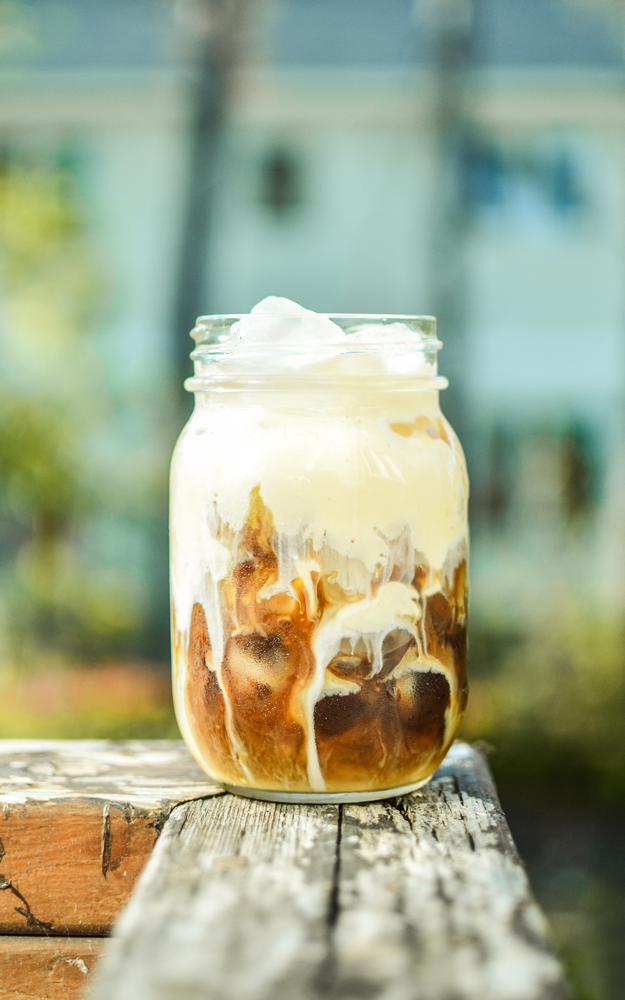
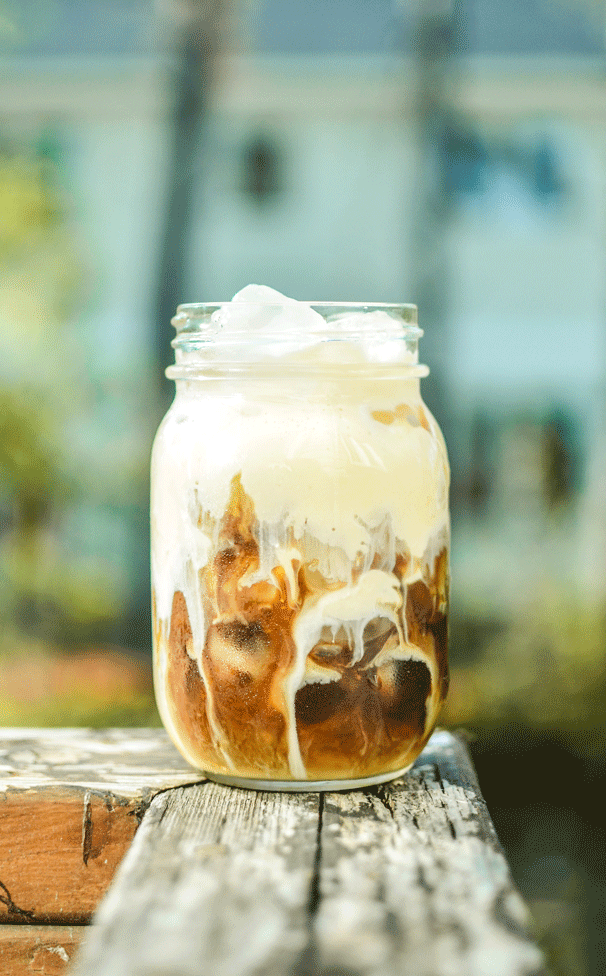
adjusted image order and size

diff --git a/index.html b/index.html
@@ -46,10 +46,10 @@
 		<div class="unit unit-s-1 unit-m-1-2 unit-l-1-4">
   			<ul class="photos">
 				<li>
-					<img src="img/img-bicycler.png" alt="eben">
+					<img src="img/img-iggy-4.png" alt="eben">
 				</li>
 				<li>
-					<img src="img/img-iggy-4.png" alt="eben">
+					<img src="img/img-bicycler.png" alt="eben">
 				</li>
 				<li>
 					<img src="img/img-food-brownie.png" alt="eben">
@@ -61,7 +61,7 @@
 					<img src="img/img-teganandsara.png" alt="eben">
 				</li>
 				<li>
-					<img src="img/img-eben-2.png" alt="eben">
+					<img src="img/img-bab-2.png" alt="eben">
 				</li>
 				<li>
 					<img src="img/img-food-macaroon.png" alt="eben">
@@ -70,10 +70,16 @@
 					<img src="img/img-nf.png" alt="eben">
 				</li>
 				<li>
+					<img src="img/img-eben-2.png" alt="eben">
+				</li>
+				<li>
 					<img src="img/img-food-meat-pies.png" alt="eben">
 				</li>
 				<li>
-					<img src="img/img-eddie-3.png" alt="eben">
+					<img src="img/img-bab-1.png" alt="eben">
+				</li>
+				<li>
+					<img src="img/img-penny.png" alt="eben">
 				</li>
 			</ul>
 		</div>
@@ -89,7 +95,13 @@
 					<img src="img/img-hodan-3.png" alt="eben">
 				</li>
 				<li>
+					<img src="img/img-vans.png" alt="eben">
+				</li>
+				<li>
 					<img src="img/img-lammi.png" alt="eben">
+				</li>
+				<li>
+					<img src="img/img-hodan-2.png" alt="eben">
 				</li>
 				<li>
 					<img src="img/img-noah.png" alt="eben">
@@ -101,13 +113,13 @@
 					<img src="img/img-eddie-1.png" alt="eben">
 				</li>
 				<li>
-					<img src="img/img-bab-1.png" alt="eben">
+					<img src="img/img-model-1.png" alt="eben">
 				</li>
 				<li>
-					<img src="img/img-hodan-2.png" alt="eben">
+					<img src="img/img-maydayparade.png" alt="eben">
 				</li>
 				<li>
-					<img src="img/img-hongkong.png" alt="eben">
+					<img src="img/img-kelly.png" alt="eben">
 				</li>
 			</ul>
 		</div>
@@ -120,31 +132,31 @@
 					<img src="img/img-amy.png" alt="eben">
 				</li>
 				<li>
-					<img src="img/img-eben-1.png" alt="eben">
-				</li>
-				<li>
 					<img src="img/img-victoria.png" alt="eben">
 				</li>
 				<li>
-					<img src="img/img-maydayparade.png" alt="eben">
-				</li>
-				<li>
-					<img src="img/img-iggydancer.png" alt="eben">
+					<img src="img/img-converse.png" alt="eben">
 				</li>
 				<li>
 					<img src="img/img-eben-5.png" alt="eben">
 				</li>
 				<li>
-					<img src="img/img-iggy-2.png" alt="eben">
+					<img src="img/img-iggy-1.png" alt="eben">
 				</li>
 				<li>
-					<img src="img/img-jem-2.png" alt="eben">
+					<img src="img/img-converse.png" alt="eben">
 				</li>
 				<li>
 					<img src="img/img-v.png" alt="eben">
 				</li>
 				<li>
-					<img src="img/img-model-1.png" alt="eben">
+					<img src="img/img-iggy-2.png" alt="eben">
+				</li>
+				<li>
+					<img src="img/img-bab-3.png" alt="eben">
+				</li>
+				<li>
+					<img src="img/img-hongkong.png" alt="eben">
 				</li>
 			</ul>
 		</div>
@@ -154,25 +166,19 @@
 					<img src="img/img-eddie-2.png" alt="eben">
 				</li>
 				<li>
-					<img src="img/img-iggy-1.png" alt="eben">
-				</li>
-				<li>
-					<img src="img/img-berries.png" alt="eben">
-				</li>
-				<li>
-					<img src="img/img-iggydancers-2.png" alt="eben">
-				</li>
-				<li>
-					<img src="img/img-bab-3.png" alt="eben">
-				</li>
-				<li>
-					<img src="img/img-kelly-skate.png" alt="eben">
+					<img src="img/img-iggydancer.png" alt="eben">
 				</li>
 				<li>
 					<img src="img/img-jem-4.png" alt="eben">
 				</li>
 				<li>
-					<img src="img/img-iggydancers.png" alt="eben">
+					<img src="img/img-kelly-skate.png" alt="eben">
+				</li>
+				<li>
+					<img src="img/img-berries.png" alt="eben">
+				</li>
+				<li>
+					<img src="img/img-eben-1.png" alt="eben">
 				</li>
 				<li>
 					<img src="img/img-food-milk-tea.png" alt="eben">
@@ -181,7 +187,13 @@
 					<img src="img/img-eben-6.png" alt="eben">
 				</li>
 				<li>
-					<img src="img/img-bab-2.png" alt="eben">
+					<img src="img/img-iggydancers.png" alt="eben">
+				</li>
+				<li>
+					<img src="img/img-eddie-3.png" alt="eben">
+				</li>
+				<li>
+					<img src="img/img-iggydancers-2.png" alt="eben">
 				</li>
 			</ul>
 		</div>
